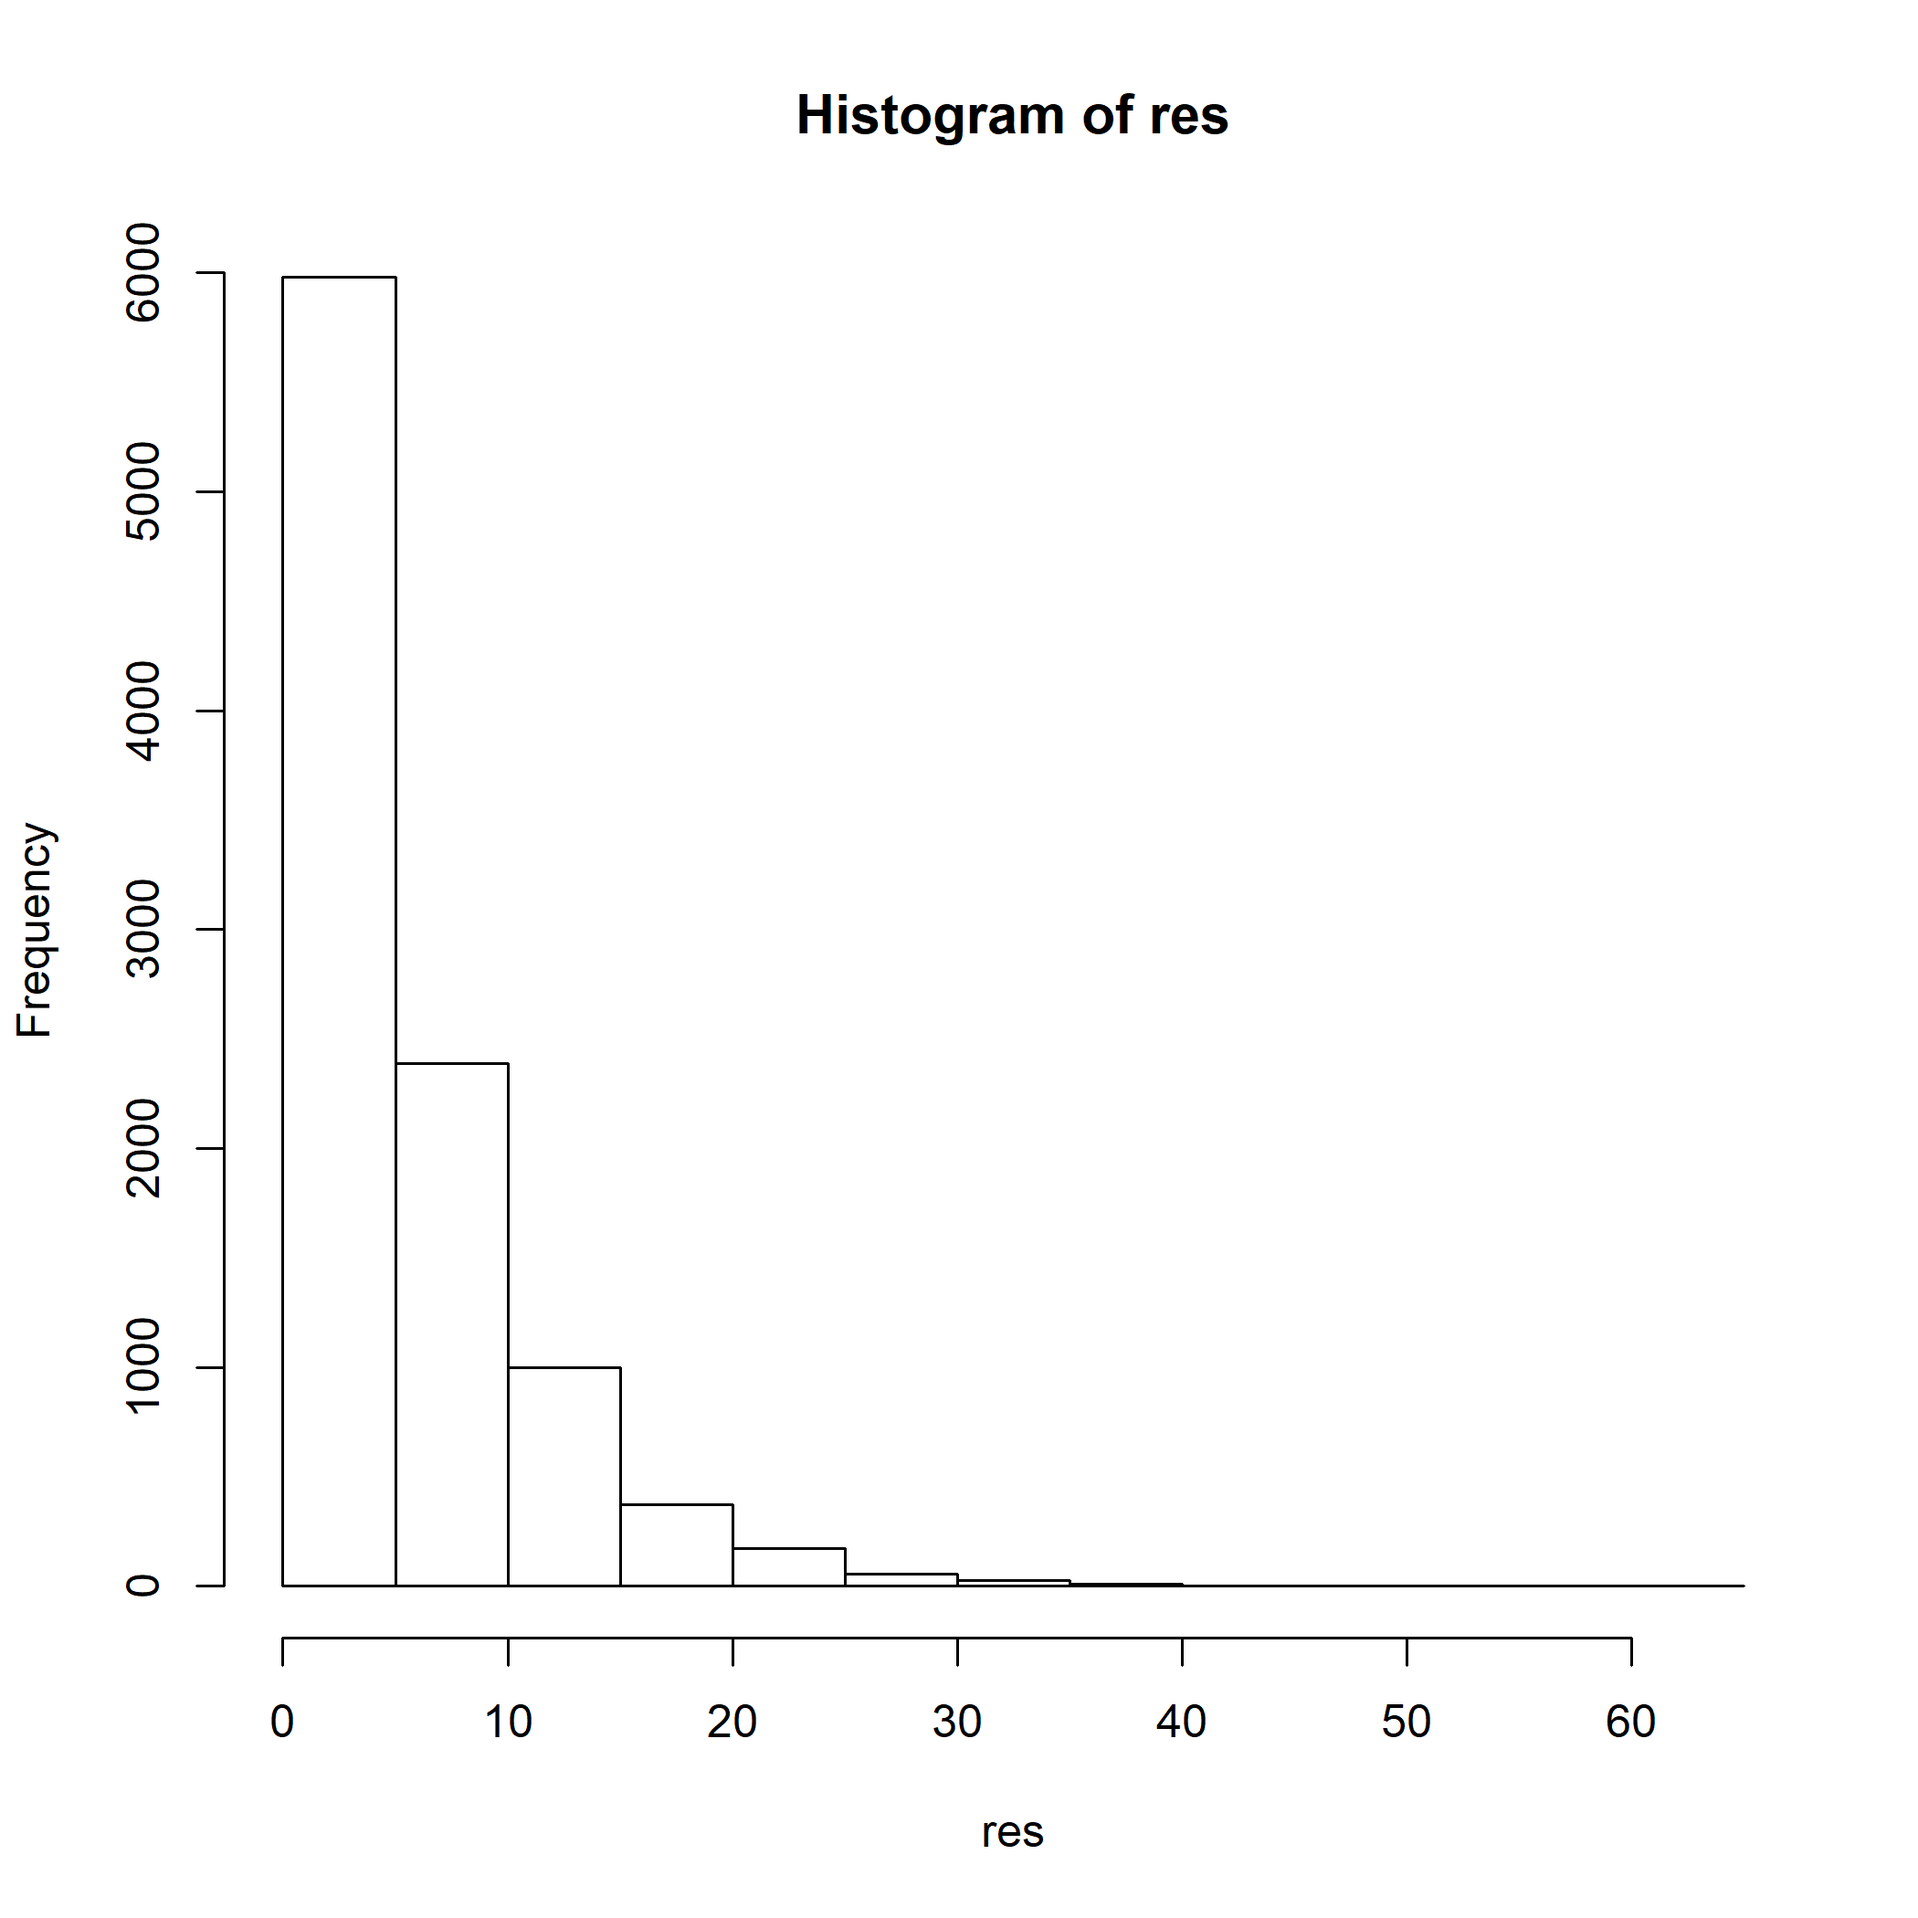
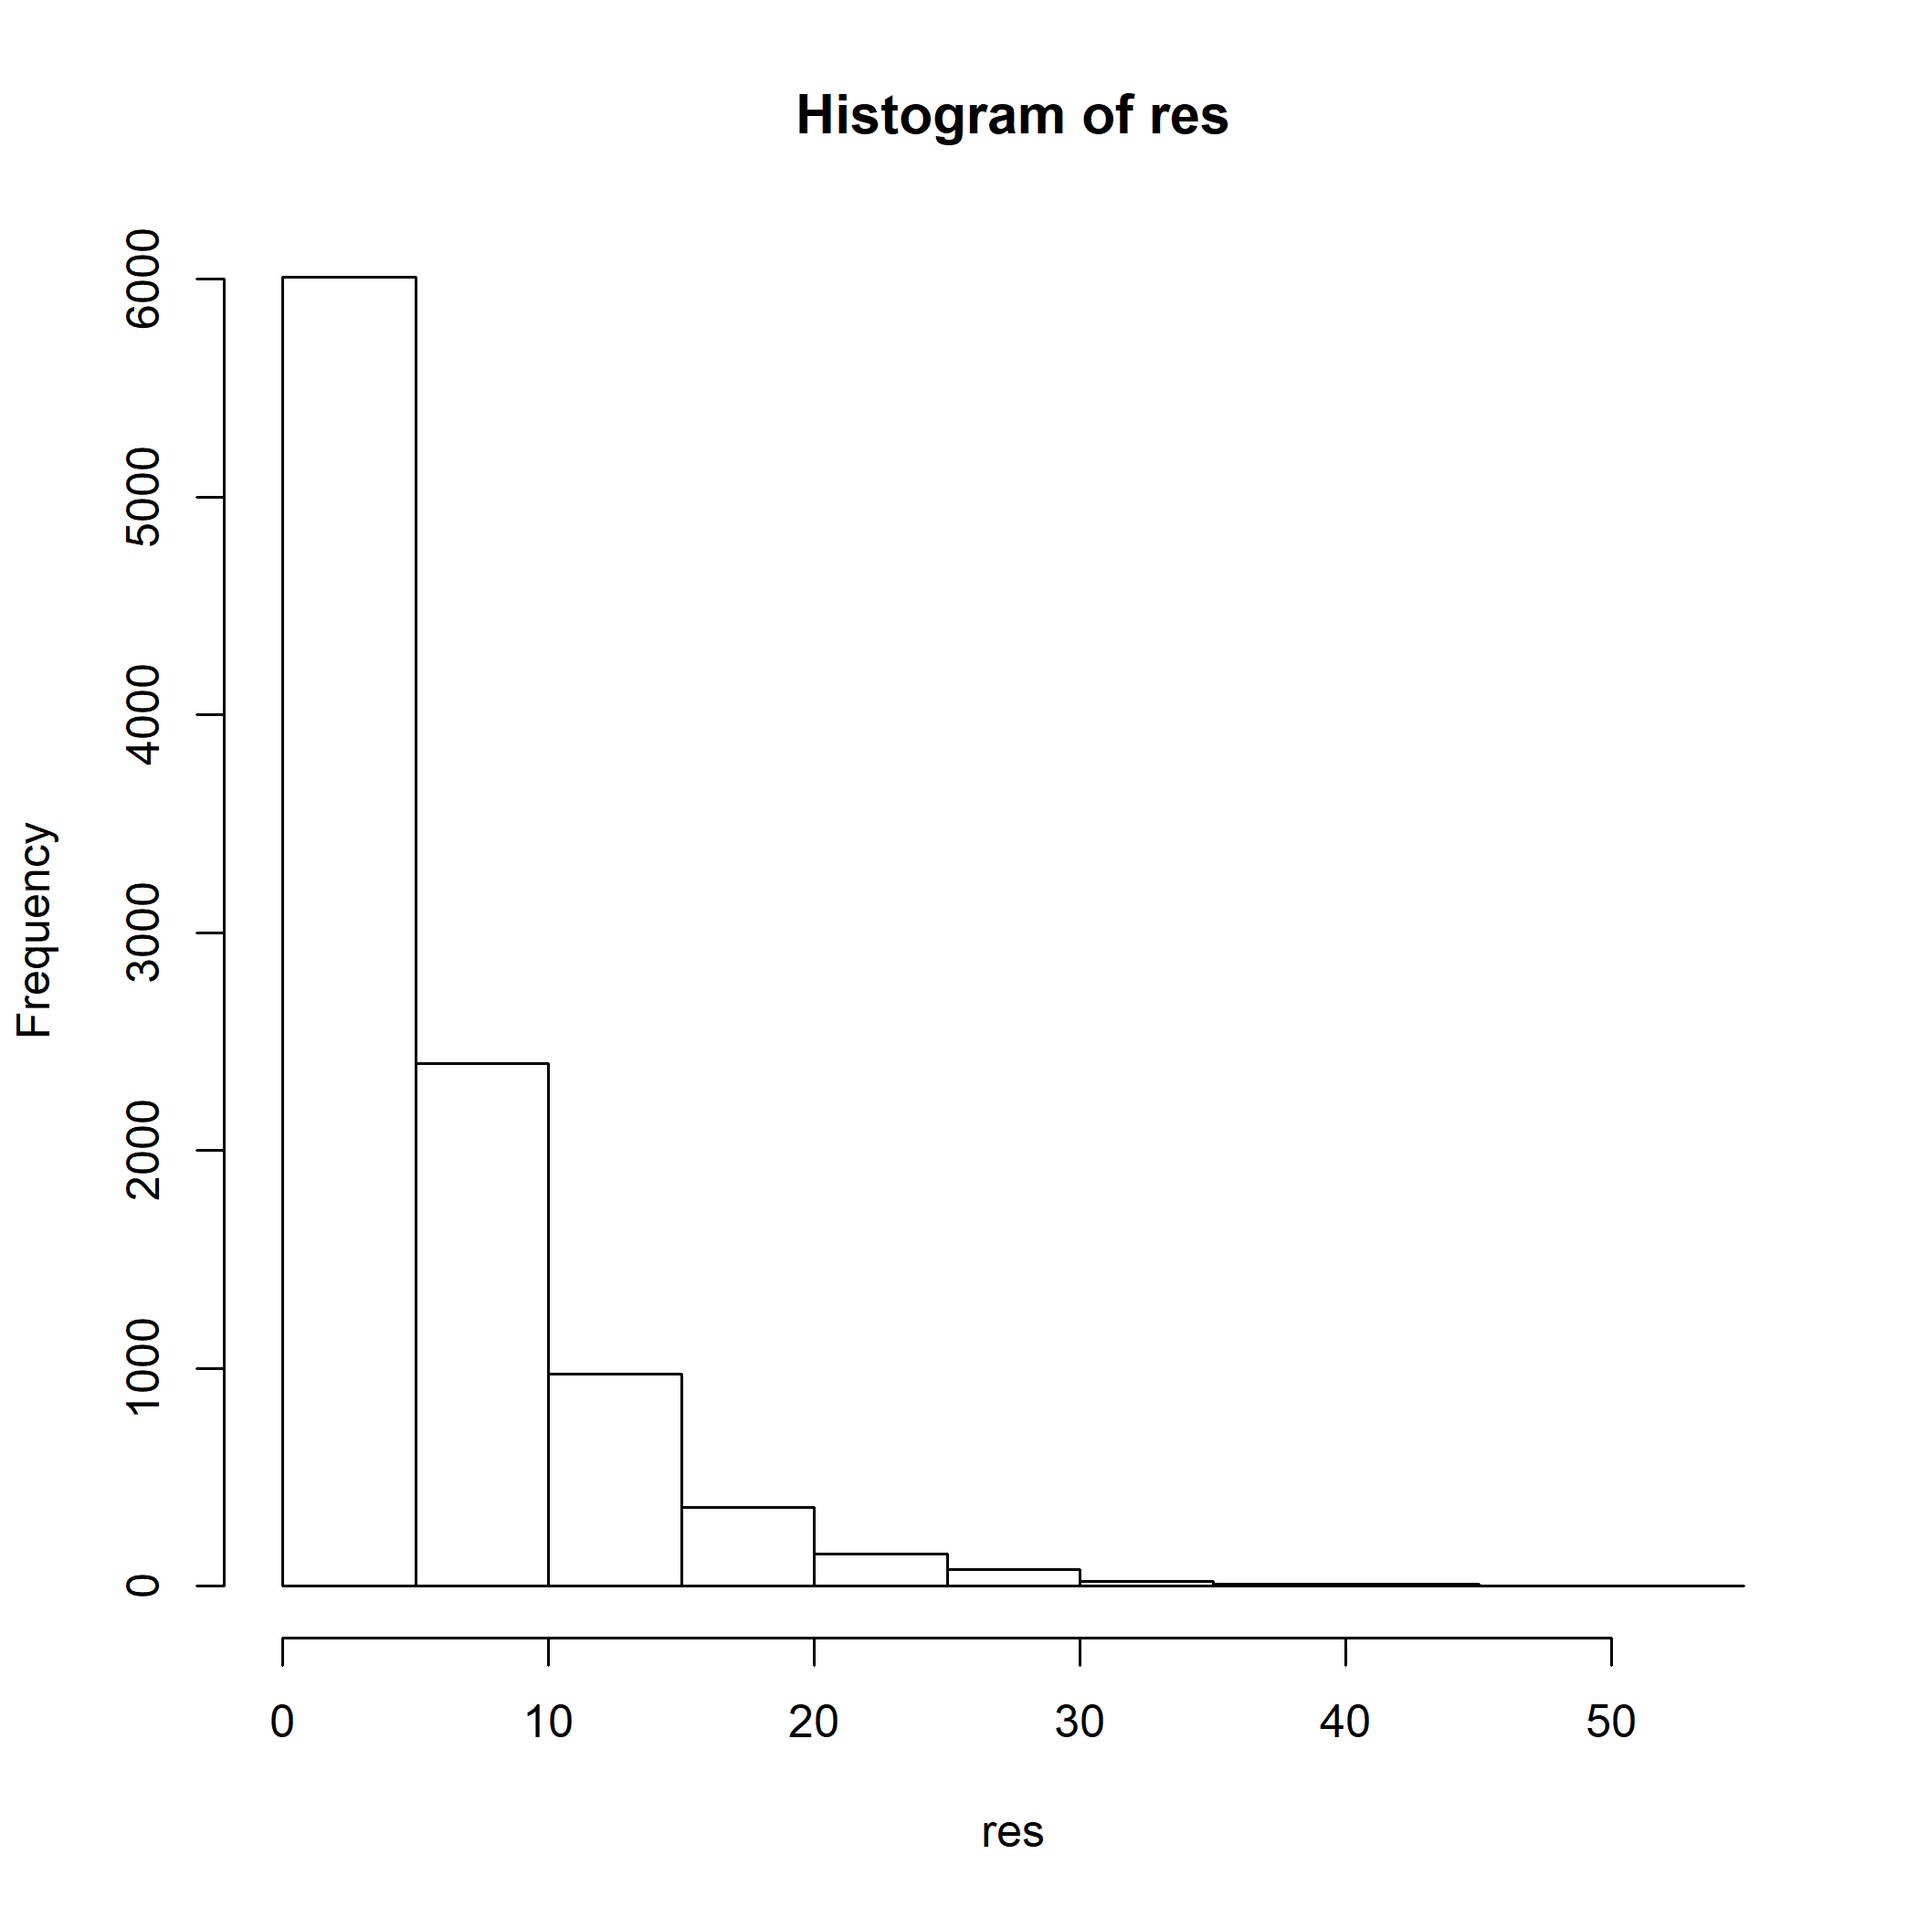
modif

diff --git a/Atelier_3/index.html b/Atelier_3/index.html
@@ -194,7 +194,7 @@ for(etape in 1:5) {
 ---
 # Exercice
 
-Transformez en fahrenheit une séquence de température en celsius qui va de -50 à 100, par bond de 1. Rappelez vous que la conversion est `\(1.8*C + 32\)`.
+Transformez en Fahrenheit une séquence de température en Celsius qui va de -50 à 100, par bond de 1. Rappelez-vous que la conversion est `\(1.8*C + 32\)`.
 
 - Déterminez le point de départ de la séquence
 - Déterminez le point de fin de la séquence
@@ -378,11 +378,11 @@ for(etape in 1:5) {
 ```
 
 ```
-## [1] 0.3825806
-## [1] 0.04951064
-## [1] 0.4529791
-## [1] 0.861229
-## [1] 0.7424825
+## [1] 0.9857407
+## [1] 0.1867978
+## [1] 0.356966
+## [1] 0.4299258
+## [1] 0.3666816
 ```
 
 ---
@@ -451,19 +451,18 @@ for(C in -50:100) {
     resultat[n,2] = 1.8*C + 32
     n = n + 1
 }
-head(resultat)
 ```
 
 ---
 # Exercice
 
-On peut aussi utiliser le compteur pour réaliser des opérations mathématiques récursives. Par exemple, la factorielle n! est définie comme :
+On peut aussi utiliser le compteur pour réaliser des opérations mathématiques récursives. Par exemple, la factorielle de **n** est définie comme :
 
 $$
-n! = 1 \times 2 \times 3 \times 4 \times .... n
+n! = 1 \times 2 \times 3 \times \dots \times (n-1) \times n
 $$
 
-Calculez la factorielle 10 au moyen d'une boucle.
+Calculez la factorielle  de 10 au moyen d'une boucle.
 
 ---
 # Solution
@@ -480,7 +479,7 @@ n
 ```
 
 ---
-# On complexifie le problème ....
+# On complexifie le problème ...
 
 Il est possible d'incruster une boucle dans une boucle. On réalise notamment cette opération pour faire des calculs sur des matrices, des listes...
 
@@ -509,7 +508,7 @@ $$
 
 On se souvient que c'est assez fastidieux de refaire cet exercice à la main, mais c'est faisable.
 
-Imaginez cependant que vous découvrez un jour qu'un passionné des salamandres a déjà fait une étude similaire sur ce site, et par miracle vous obtenez des séries temporelles de 50 ans réparties sur 10 points d'échantillonnage. Il faudra changer de technique....
+Imaginez cependant que vous découvrez un jour qu'un passionné des salamandres a déjà fait une étude similaire sur ce site, et par miracle vous obtenez des séries temporelles de 50 ans réparties sur 10 points d'échantillonnage. Il faudra changer de technique...
 
 ---
 # Retour sur la mise en situation
@@ -531,7 +530,7 @@ for(i in 2:n_annees) {
 ---
 # La boucle while
 
-La boucle de type *while*, pour 'pendant', répète une série d'intructions tant qu'une condition n'a pas été atteinte. C'est une version générale de la boucle *for*. Par exemple, on peut tirer deux pièces de monnaie jusqu'à ce que l'on obtienne la combinaison pile-pile.
+La boucle de type *while* répète une série d'intructions tant qu'une condition n'a pas été atteinte. C'est une version générale de la boucle *for*. Par exemple, on peut tirer deux pièces de monnaie jusqu'à ce que l'on obtienne la combinaison pile-pile.
 
 
 ```r
@@ -546,8 +545,15 @@ while(combinaison != "pile-pile") {
 ```
 
 ```
+## [1] "pile-face"
+## [1] "face-face"
+## [1] "pile-face"
+## [1] "face-face"
+## [1] "pile-face"
+## [1] "face-face"
+## [1] "face-face"
 ## [1] "face-pile"
-## [1] "face-pile"
+## [1] "face-face"
 ## [1] "pile-pile"
 ```
 
@@ -577,7 +583,7 @@ mean(res)
 ```
 
 ```
-## [1] 5.9818
+## [1] 5.9885
 ```
 
 ---
@@ -666,7 +672,7 @@ class: middle, center, inverse
 ---
 # Principe
 
-Très souvent en programmation on a à prendre des décisions du type **si la condition X est remplie, alors faire Y, sinon faire Z**. Nous avons déjà vu certains exemples depuis le début des ateliers.
+Très souvent en programmation, on doit prendre des décisions du type **si la condition X est remplie, alors faire Y, sinon faire Z**. Nous avons déjà vu certains exemples depuis le début des ateliers.
 
 La structure de base d'une expression conditionnelle est la suivante:
 
@@ -808,16 +814,16 @@ cbind(X,res)
 
 ```
 ##       X                    res         
-##  [1,] "0.783969709416851"  "plus grand"
-##  [2,] "0.378804969135672"  "plus grand"
-##  [3,] "0.789071183884516"  "plus grand"
-##  [4,] "0.110445021418855"  "plus petit"
-##  [5,] "0.784922069171444"  "plus grand"
-##  [6,] "0.0422387244179845" "plus petit"
-##  [7,] "0.494542457861826"  "plus grand"
-##  [8,] "0.382519201142713"  "plus grand"
-##  [9,] "0.331616488751024"  "plus grand"
-## [10,] "0.0599908432923257" "plus petit"
+##  [1,] "0.0481583310756832" "plus petit"
+##  [2,] "0.734754332574084"  "plus grand"
+##  [3,] "0.265626113163307"  "plus petit"
+##  [4,] "0.813713737530634"  "plus grand"
+##  [5,] "0.998320255661383"  "plus grand"
+##  [6,] "0.617680101655424"  "plus grand"
+##  [7,] "0.132359272567555"  "plus petit"
+##  [8,] "0.768528125714511"  "plus grand"
+##  [9,] "0.0610656819771975" "plus petit"
+## [10,] "0.643128432333469"  "plus grand"
 ```
 ]
 
@@ -862,16 +868,16 @@ cbind(X,res2)
 
 ```
 ##       X                    res2 
-##  [1,] "0.783969709416851"  "non"
-##  [2,] "0.378804969135672"  "oui"
-##  [3,] "0.789071183884516"  "non"
-##  [4,] "0.110445021418855"  "non"
-##  [5,] "0.784922069171444"  "non"
-##  [6,] "0.0422387244179845" "non"
-##  [7,] "0.494542457861826"  "oui"
-##  [8,] "0.382519201142713"  "oui"
-##  [9,] "0.331616488751024"  "oui"
-## [10,] "0.0599908432923257" "non"
+##  [1,] "0.0481583310756832" "non"
+##  [2,] "0.734754332574084"  "non"
+##  [3,] "0.265626113163307"  "oui"
+##  [4,] "0.813713737530634"  "non"
+##  [5,] "0.998320255661383"  "non"
+##  [6,] "0.617680101655424"  "non"
+##  [7,] "0.132359272567555"  "non"
+##  [8,] "0.768528125714511"  "non"
+##  [9,] "0.0610656819771975" "non"
+## [10,] "0.643128432333469"  "non"
 ```
 ]
 
@@ -898,16 +904,16 @@ cbind(X,res2)
 
 ```
 ##       X                    res2 
-##  [1,] "0.783969709416851"  "non"
-##  [2,] "0.378804969135672"  "oui"
-##  [3,] "0.789071183884516"  "non"
-##  [4,] "0.110445021418855"  "non"
-##  [5,] "0.784922069171444"  "non"
-##  [6,] "0.0422387244179845" "non"
-##  [7,] "0.494542457861826"  "oui"
-##  [8,] "0.382519201142713"  "oui"
-##  [9,] "0.331616488751024"  "oui"
-## [10,] "0.0599908432923257" "non"
+##  [1,] "0.0481583310756832" "non"
+##  [2,] "0.734754332574084"  "non"
+##  [3,] "0.265626113163307"  "oui"
+##  [4,] "0.813713737530634"  "non"
+##  [5,] "0.998320255661383"  "non"
+##  [6,] "0.617680101655424"  "non"
+##  [7,] "0.132359272567555"  "non"
+##  [8,] "0.768528125714511"  "non"
+##  [9,] "0.0610656819771975" "non"
+## [10,] "0.643128432333469"  "non"
 ```
 ]
 
@@ -1000,7 +1006,7 @@ tirage(3, cartes)
 ```
 
 ```
-## [1] "7 - coeur"   "9 - carreau" "3 - pique"
+## [1] "4 - carreau" "roi - pique" "4 - pique"
 ```
 
 ---
@@ -1078,7 +1084,7 @@ rbinom(n = 10, size = 1, prob = 0.5)
 ```
 
 ```
-##  [1] 1 0 1 0 0 1 1 0 1 0
+##  [1] 1 0 0 0 1 1 0 0 0 1
 ```
 ]
 
@@ -1102,11 +1108,11 @@ rmultinom(n = 3, size = 1, prob = rep(1/6, 6))
 ```
 ##      [,1] [,2] [,3]
 ## [1,]    0    0    0
-## [2,]    1    0    0
-## [3,]    0    0    1
-## [4,]    0    0    0
-## [5,]    0    1    0
-## [6,]    0    0    0
+## [2,]    0    0    0
+## [3,]    0    0    0
+## [4,]    1    0    1
+## [5,]    0    0    0
+## [6,]    0    1    0
 ```
 ]
 
@@ -1504,7 +1510,7 @@ system.time(tri(x))
 
 ```
 ##    user  system elapsed 
-##    0.28    0.00    0.28
+##    0.25    0.00    0.25
 ```
 
 ---
@@ -1564,7 +1570,7 @@ system.time(f1(x))
 
 ```
 ##    user  system elapsed 
-##    0.08    0.00    0.08
+##    0.06    0.00    0.06
 ```
 
 ```r
@@ -1615,7 +1621,7 @@ system.time(f1(X))
 ##    user  system elapsed 
 ##       0       0       0 
 ##    user  system elapsed 
-##    0.70    0.00    0.71
+##    0.66    0.00    0.66
 ```
 ]
 

diff --git a/Atelier_1/index.html b/Atelier_1/index.html
@@ -598,11 +598,9 @@ class: inverse, middle, center
 
 \# Ceci peut s'avérer utile afin de détailler notre code. 
 
-#Exemple:
-
-\# Ici, on fait la somme de deux nombres 
-
-Somme = PremierNombre + DeuxiemeNombre
+&lt;div style='text-align:center;'&gt;
+  &lt;img src="assets/img/Commentaire.PNG" height="300px"&gt;&lt;/img&gt;
+&lt;/div&gt;
 ---
 
 # Les 10 commandements de la programmation
